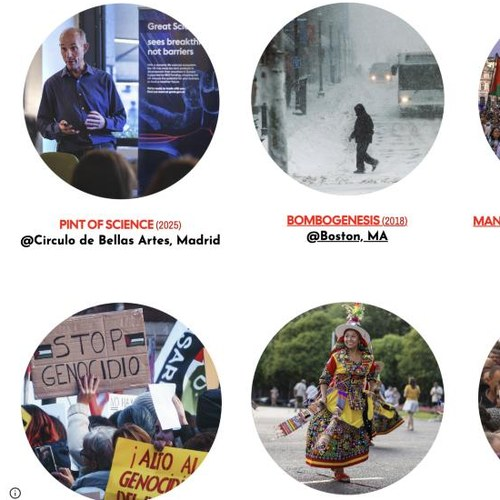
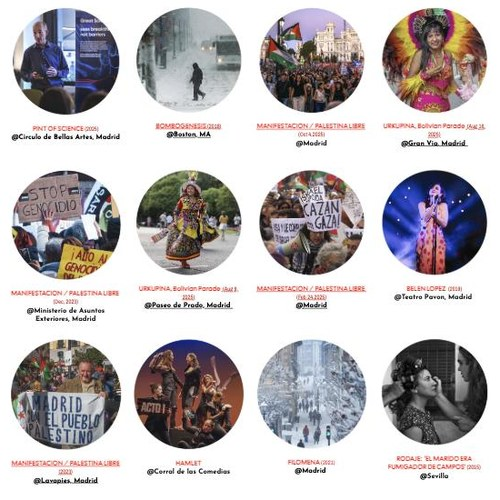
splash: wider Events snapshot, Galleries as slow-scrolling page snapshot, slideshow photos fit uncropped
Claude-Session: https://claude.ai/code/session_01XdvN13kpUfByxjHJ9XMDMT

diff --git a/splash-copy-of-copy-of-home.html b/splash-copy-of-copy-of-home.html
@@ -34,7 +34,13 @@
   .circle{position:relative;width:var(--circle);height:var(--circle);border-radius:50%;overflow:hidden;background:#1a1a1a;isolation:isolate;flex:none}
   .node.wide{width:calc(var(--circle)*1.5)}
   .circle.rect{width:calc(var(--circle)*1.5);border-radius:8px}
-  .circle.rect img.ss{opacity:0;transition:opacity .5s cubic-bezier(.65,0,.35,1),filter .25s ease}
+  .circle.rect{background:#fff}
+  .circle.rect img.ss{opacity:0;object-fit:contain;transform:none;transition:opacity .5s cubic-bezier(.65,0,.35,1),filter .25s ease}   /* whole photo, never cropped */
+  .node:hover .circle.rect img.ss,.node:focus-visible .circle.rect img.ss{transform:none}
+  /* Galleries button: a tall snapshot of the page drifting slowly down (and back up) */
+  .circle .media.scroll{background-size:100% auto;background-repeat:no-repeat;background-position:50% 0;animation:pageScroll 150s ease-in-out infinite alternate}
+  @keyframes pageScroll{to{background-position:50% 100%}}
+  .circle.held .media.scroll{animation-play-state:paused}
   .circle.rect img.ss.on{opacity:1}
   .circle .media{position:absolute;inset:0;width:100%;height:100%;object-fit:cover;display:block;transition:transform .7s cubic-bezier(.22,1,.36,1),filter .25s ease}
   .circle img.media,.circle canvas.media,.circle video.media{transform:scale(1.03)}  /* hides the button GIFs' thin white rim */
@@ -145,7 +151,7 @@ const TREE = {
           children: [
             { title: 'Slideshow', slideshow: FAVORITES_ALBUM, href: SITE + '/home_2/photography-slideshow' },   // a live slideshow, as a rectangle
             { title: 'Events',    media: { type:'image', src: THUMB + 'photo-events.jpg' },    href: SITE + '/home_2/photography-slideshow/events' },
-            { title: 'Galleries', media: { type:'image', src: THUMB + 'photo-galleries.jpg' }, href: SITE + '/home_2/photography-slideshow/galleries' }
+            { title: 'Galleries', media: { type:'scroll', src: THUMB + 'photo-galleries-strip.jpg' }, href: SITE + '/home_2/photography-slideshow/galleries' }
           ] },
         { title: 'Video', titleHTML: '<span class="t-video"><b>VIDEO</b><i><em>&amp;</em>EDIT</i></span>', media: { type:'video', src: LOOP + 'btn-video.mp4' },
           children: [
@@ -216,6 +222,11 @@ function makeMedia(m, label, phText){
       if (m.poster) v.poster = m.poster;
       v.src = m.src; v.className = 'media'; v.play().catch(()=>{});
       return v;
+    }
+    if (m.type === 'scroll'){
+      const d = document.createElement('div');
+      d.className = 'media scroll'; d.style.backgroundImage = `url("${m.src}")`;
+      return d;
     }
     const i = document.createElement('img');
     i.src = m.src; i.alt = ''; i.className = 'media'; i.draggable = false;
@@ -360,6 +371,7 @@ async function startSlideshow(c, album){
       im.onerror = res; im.src = src;
     });
     await show(urls[0]);
+    bg.remove();
     while (c.isConnected){
       await wait(2700);
       if (!c.isConnected) break;
